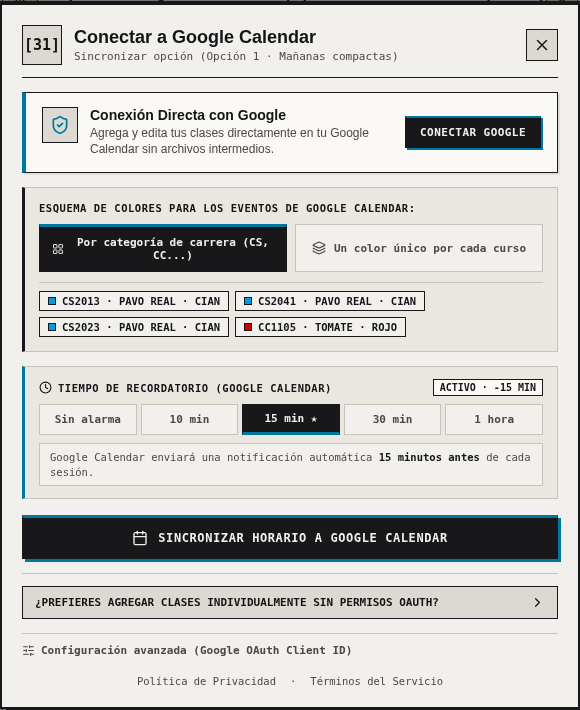
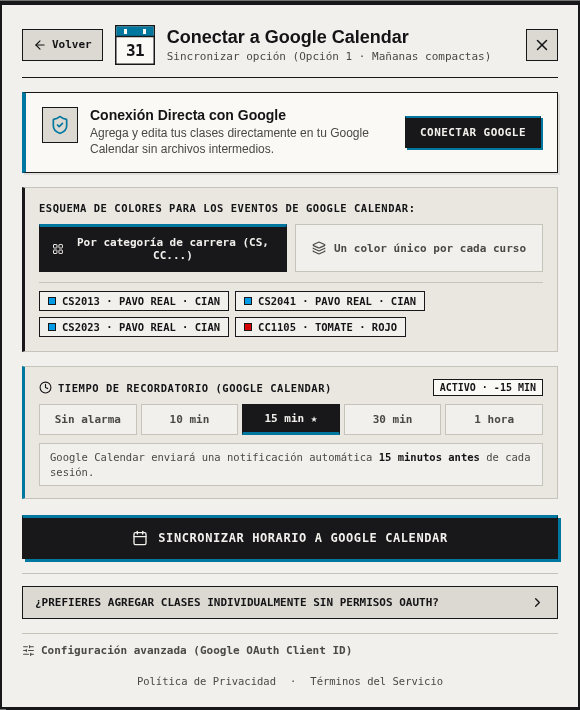
fix(ui): eliminate modal-on-modal stacking and replace [31] with Swiss Calendar-31 SVG

Changed region(s): [[0.031, 0.031, 0.7138, 0.093], [0.7448, 0.062, 0.8379, 0.093]]

diff --git a/src/components/ExportModal.tsx b/src/components/ExportModal.tsx
@@ -4,6 +4,7 @@ import { generateICS, downloadFile } from '../utils/icsExporter';
 import { exportScheduleToPNG } from '../utils/pngExporter';
 import { formatLocation, getCourseColor, getCoursePrefix, getScheduleColorMap } from '../utils/scheduleUtils';
 import { GoogleCalendarModal } from './GoogleCalendarModal';
+import { Calendar31Icon } from './common/Calendar31Icon';
 import type { Course } from '../types/schedule';
 
 interface ExportModalProps {
@@ -144,9 +145,25 @@ export const ExportModal: React.FC<ExportModalProps> = ({
     downloadFile(csvContent, `Cursos_Seleccionados_${optionName.replace(/\s+/g, '_')}.csv`, 'text/csv;charset=utf-8;');
   };
 
+  if (isGCalModalOpen) {
+    return (
+      <GoogleCalendarModal
+        isOpen={isGCalModalOpen}
+        onBack={() => setIsGCalModalOpen(false)}
+        onClose={() => {
+          setIsGCalModalOpen(false);
+          onClose();
+        }}
+        courses={courses}
+        selectedSections={selectedSections}
+        optionName={optionName}
+        isConsolidado={isConsolidado}
+      />
+    );
+  }
+
   return (
-    <>
-      <div className="modal-overlay" onClick={onClose}>
+    <div className="modal-overlay" onClick={onClose}>
         <div
           role="dialog"
           aria-modal="true"
@@ -269,26 +286,7 @@ export const ExportModal: React.FC<ExportModalProps> = ({
             >
               <div className="export-card-row" style={{ display: 'flex', alignItems: 'center', justifyContent: 'space-between', gap: '12px' }}>
                 <div className="export-card-info" style={{ display: 'flex', alignItems: 'flex-start', gap: '12px', flex: 1, minWidth: 0 }}>
-                  <div
-                    className="export-card-icon"
-                    style={{
-                      width: '42px',
-                      height: '42px',
-                      borderRadius: '0px',
-                      border: '1.5px solid #18181A',
-                      backgroundColor: '#E0EBF5',
-                      color: '#005A78',
-                      display: 'flex',
-                      alignItems: 'center',
-                      justifyContent: 'center',
-                      flexShrink: 0,
-                      fontFamily: 'JetBrains Mono, monospace',
-                      fontSize: '15px',
-                      fontWeight: 700
-                    }}
-                  >
-                    31
-                  </div>
+                  <Calendar31Icon size={42} />
                   <div style={{ flex: 1, minWidth: 0 }}>
                     <div style={{ display: 'flex', alignItems: 'center', gap: '8px', flexWrap: 'wrap' }}>
                       <span className="export-card-title" style={{ fontFamily: 'var(--font-heading, Space Grotesk)', fontWeight: 700, fontSize: '13.5px', color: '#141416' }}>
@@ -756,15 +754,5 @@ export const ExportModal: React.FC<ExportModalProps> = ({
           </div>
         </div>
       </div>
-
-      <GoogleCalendarModal
-        isOpen={isGCalModalOpen}
-        onClose={() => setIsGCalModalOpen(false)}
-        courses={courses}
-        selectedSections={selectedSections}
-        optionName={optionName}
-        isConsolidado={isConsolidado}
-      />
-    </>
   );
 };

diff --git a/src/components/GoogleCalendarModal.tsx b/src/components/GoogleCalendarModal.tsx
@@ -14,8 +14,10 @@ import {
   Layers,
   ChevronDown,
   ChevronRight,
-  SlidersHorizontal
+  SlidersHorizontal,
+  ArrowLeft
 } from 'lucide-react';
+import { Calendar31Icon } from './common/Calendar31Icon';
 import type { Course } from '../types/schedule';
 import {
   getSavedAuth,
@@ -35,6 +37,7 @@ import {
 interface GoogleCalendarModalProps {
   isOpen: boolean;
   onClose: () => void;
+  onBack?: () => void;
   courses: Course[];
   selectedSections: Record<string, string>;
   optionName: string;
@@ -57,6 +60,7 @@ const formatReminderPhrase = (minutes: number): string => {
 export const GoogleCalendarModal: React.FC<GoogleCalendarModalProps> = ({
   isOpen,
   onClose,
+  onBack,
   courses,
   selectedSections,
   optionName,
@@ -218,27 +222,36 @@ export const GoogleCalendarModal: React.FC<GoogleCalendarModalProps> = ({
             borderBottom: '1.5px solid #18181A'
           }}
         >
-          <div style={{ display: 'flex', alignItems: 'center', gap: '12px' }}>
-            <div
-              style={{
-                width: '40px',
-                height: '40px',
-                borderRadius: '0px',
-                backgroundColor: '#DCD9D2',
-                border: '1.5px solid #18181A',
-                color: '#141416',
-                fontFamily: 'JetBrains Mono, monospace',
-                fontWeight: 700,
-                fontSize: '15px',
-                display: 'flex',
-                alignItems: 'center',
-                justifyContent: 'center',
-                flexShrink: 0
-              }}
-            >
-              [31]
-            </div>
-            <div>
+          <div style={{ display: 'flex', alignItems: 'center', gap: '12px', minWidth: 0 }}>
+            {onBack && (
+              <button
+                type="button"
+                className="grafton-gcal-back-btn"
+                onClick={onBack}
+                aria-label="Volver a Exportar"
+                style={{
+                  height: '32px',
+                  padding: '0 10px',
+                  borderRadius: '0px',
+                  backgroundColor: '#DCD9D2',
+                  border: '1px solid #18181A',
+                  color: '#141416',
+                  fontFamily: 'JetBrains Mono, monospace',
+                  fontSize: '11px',
+                  fontWeight: 700,
+                  display: 'inline-flex',
+                  alignItems: 'center',
+                  gap: '5px',
+                  cursor: 'pointer',
+                  flexShrink: 0
+                }}
+              >
+                <ArrowLeft size={14} />
+                <span>Volver</span>
+              </button>
+            )}
+            <Calendar31Icon size={40} />
+            <div style={{ minWidth: 0 }}>
               <h3
                 className="modal-title"
                 style={{

diff --git a/src/components/CourseDirectory/VisitorEmailModal.tsx b/src/components/CourseDirectory/VisitorEmailModal.tsx
@@ -13,19 +13,22 @@ import {
   User,
   PenLine,
   ChevronDown,
-  ChevronUp
+  ChevronUp,
+  ArrowLeft
 } from 'lucide-react';
 
 interface VisitorEmailModalProps {
   course: CourseExtendedInfo;
   selectedSectionNumber?: string;
   onClose: () => void;
+  onBack?: () => void;
 }
 
 export const VisitorEmailModal: React.FC<VisitorEmailModalProps> = ({
   course,
   selectedSectionNumber = '1',
-  onClose
+  onClose,
+  onBack
 }) => {
   const [sectionNum, setSectionNum] = useState<string>(selectedSectionNumber);
   const [studentName, setStudentName] = useState<string>(() => {
@@ -120,6 +123,33 @@ export const VisitorEmailModal: React.FC<VisitorEmailModalProps> = ({
         {/* Modal Header */}
         <div className="visitor-modal-header">
           <div className="visitor-modal-title-group">
+            {onBack && (
+              <button
+                type="button"
+                className="visitor-modal-back-btn"
+                onClick={onBack}
+                aria-label="Volver al detalle del curso"
+                style={{
+                  height: '32px',
+                  padding: '0 10px',
+                  borderRadius: '0px',
+                  backgroundColor: '#DCD9D2',
+                  border: '1px solid #18181A',
+                  color: '#141416',
+                  fontFamily: 'JetBrains Mono, monospace',
+                  fontSize: '11px',
+                  fontWeight: 700,
+                  display: 'inline-flex',
+                  alignItems: 'center',
+                  gap: '5px',
+                  cursor: 'pointer',
+                  flexShrink: 0
+                }}
+              >
+                <ArrowLeft size={14} />
+                <span>Volver</span>
+              </button>
+            )}
             <div className="visitor-modal-icon-badge">
               <Mail size={18} />
             </div>

diff --git a/src/components/common/Calendar31Icon.tsx b/src/components/common/Calendar31Icon.tsx
@@ -1,0 +1,47 @@
+import React from 'react';
+
+interface Calendar31IconProps {
+  size?: number;
+  className?: string;
+}
+
+/**
+ * Architectural Swiss Calendar-31 SVG icon for Google Calendar UI slots.
+ */
+export const Calendar31Icon: React.FC<Calendar31IconProps> = ({ size = 40, className }) => {
+  return (
+    <svg
+      width={size}
+      height={size}
+      viewBox="0 0 40 40"
+      fill="none"
+      xmlns="http://www.w3.org/2000/svg"
+      className={className}
+      aria-hidden="true"
+      style={{ display: 'block', flexShrink: 0 }}
+    >
+      {/* Orthogonal concrete paper frame */}
+      <rect x="0.75" y="0.75" width="38.5" height="38.5" fill="#FAF9F5" stroke="#18181A" strokeWidth="1.5" />
+      {/* Swiss cyan header band */}
+      <rect x="1.5" y="1.5" width="37" height="10" fill="#00779E" />
+      <line x1="0.75" y1="11.5" x2="39.25" y2="11.5" stroke="#18181A" strokeWidth="1.5" />
+      {/* Binding pins */}
+      <rect x="9" y="4" width="3" height="5" fill="#FAF9F5" />
+      <rect x="28" y="4" width="3" height="5" fill="#FAF9F5" />
+      {/* Technical "31" date numeral */}
+      <text
+        x="20"
+        y="31"
+        textAnchor="middle"
+        fill="#141416"
+        fontFamily="JetBrains Mono, monospace"
+        fontWeight="700"
+        fontSize="16"
+        letterSpacing="-0.04em"
+      >
+        31
+      </text>
+    </svg>
+  );
+};
+

diff --git a/src/components/CourseDirectory/CourseDetailModal.tsx b/src/components/CourseDirectory/CourseDetailModal.tsx
@@ -169,6 +169,20 @@ export const CourseDetailModal: React.FC<CourseDetailModalProps> = ({
     }))
   ];
 
+  if (isEmailModalOpen) {
+    return (
+      <VisitorEmailModal
+        course={course}
+        selectedSectionNumber={selectedSectionNumber === 'ALL' ? course.extendedSections[0]?.sectionNumber || '1' : selectedSectionNumber}
+        onBack={() => setIsEmailModalOpen(false)}
+        onClose={() => {
+          setIsEmailModalOpen(false);
+          onClose();
+        }}
+      />
+    );
+  }
+
   return (
     <div
       ref={overlayRef}
@@ -497,15 +511,6 @@ export const CourseDetailModal: React.FC<CourseDetailModalProps> = ({
           </button>
         </div>
       </div>
-
-      {/* Embedded Visitor Email Modal */}
-      {isEmailModalOpen && (
-        <VisitorEmailModal
-          course={course}
-          selectedSectionNumber={selectedSectionNumber === 'ALL' ? course.extendedSections[0]?.sectionNumber || '1' : selectedSectionNumber}
-          onClose={() => setIsEmailModalOpen(false)}
-        />
-      )}
     </div>
   );
 };
